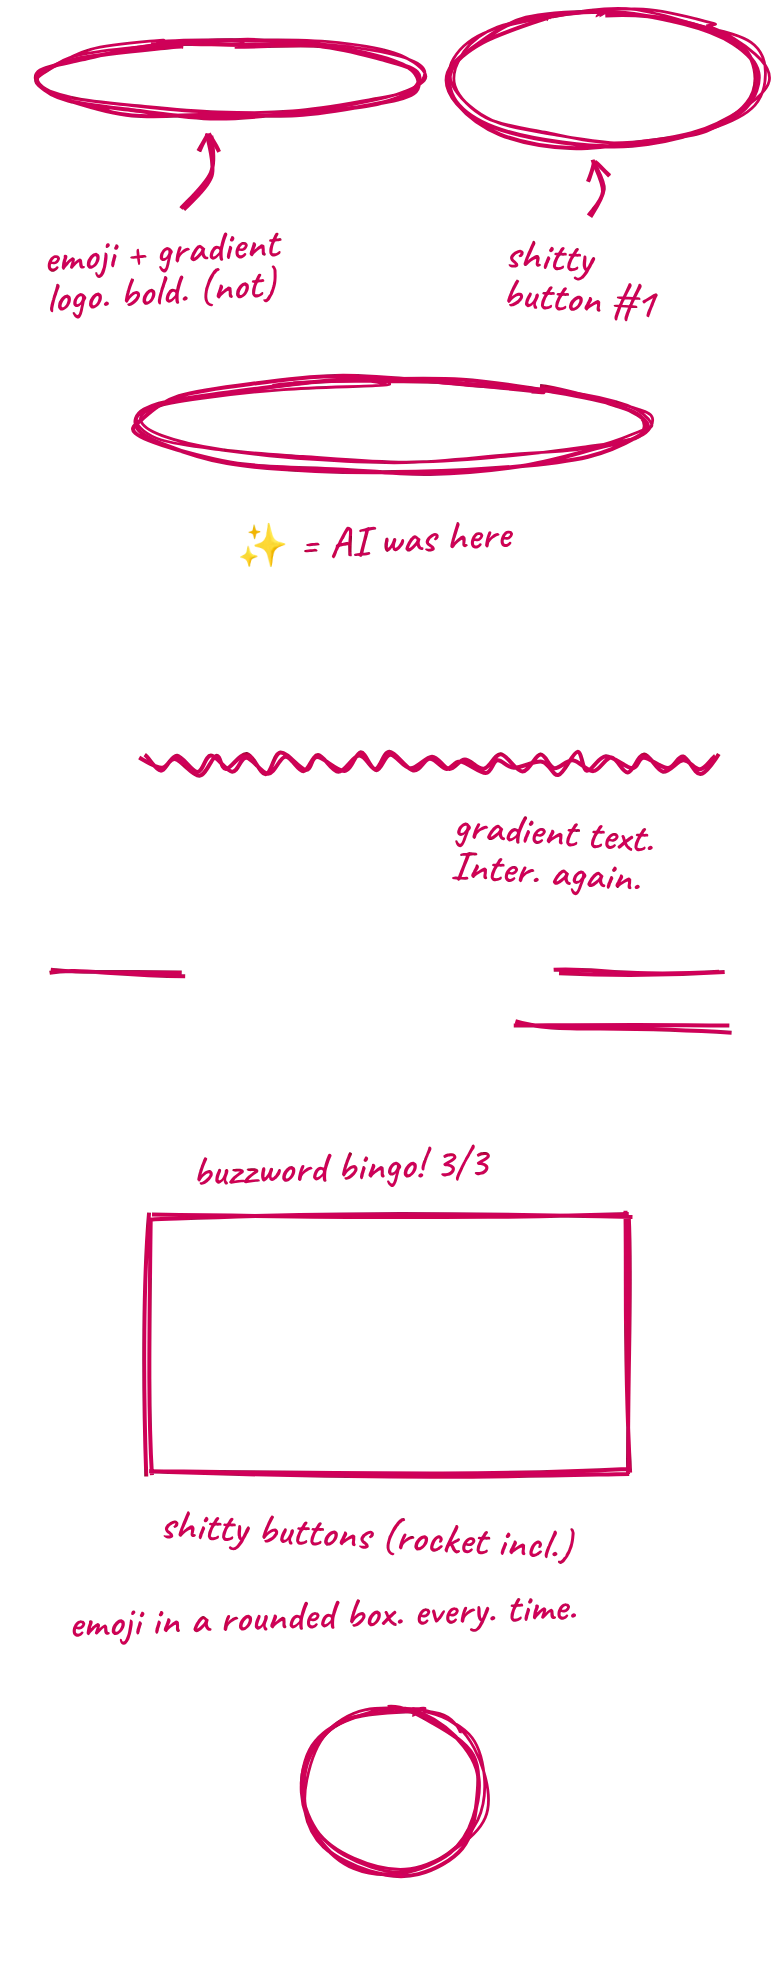
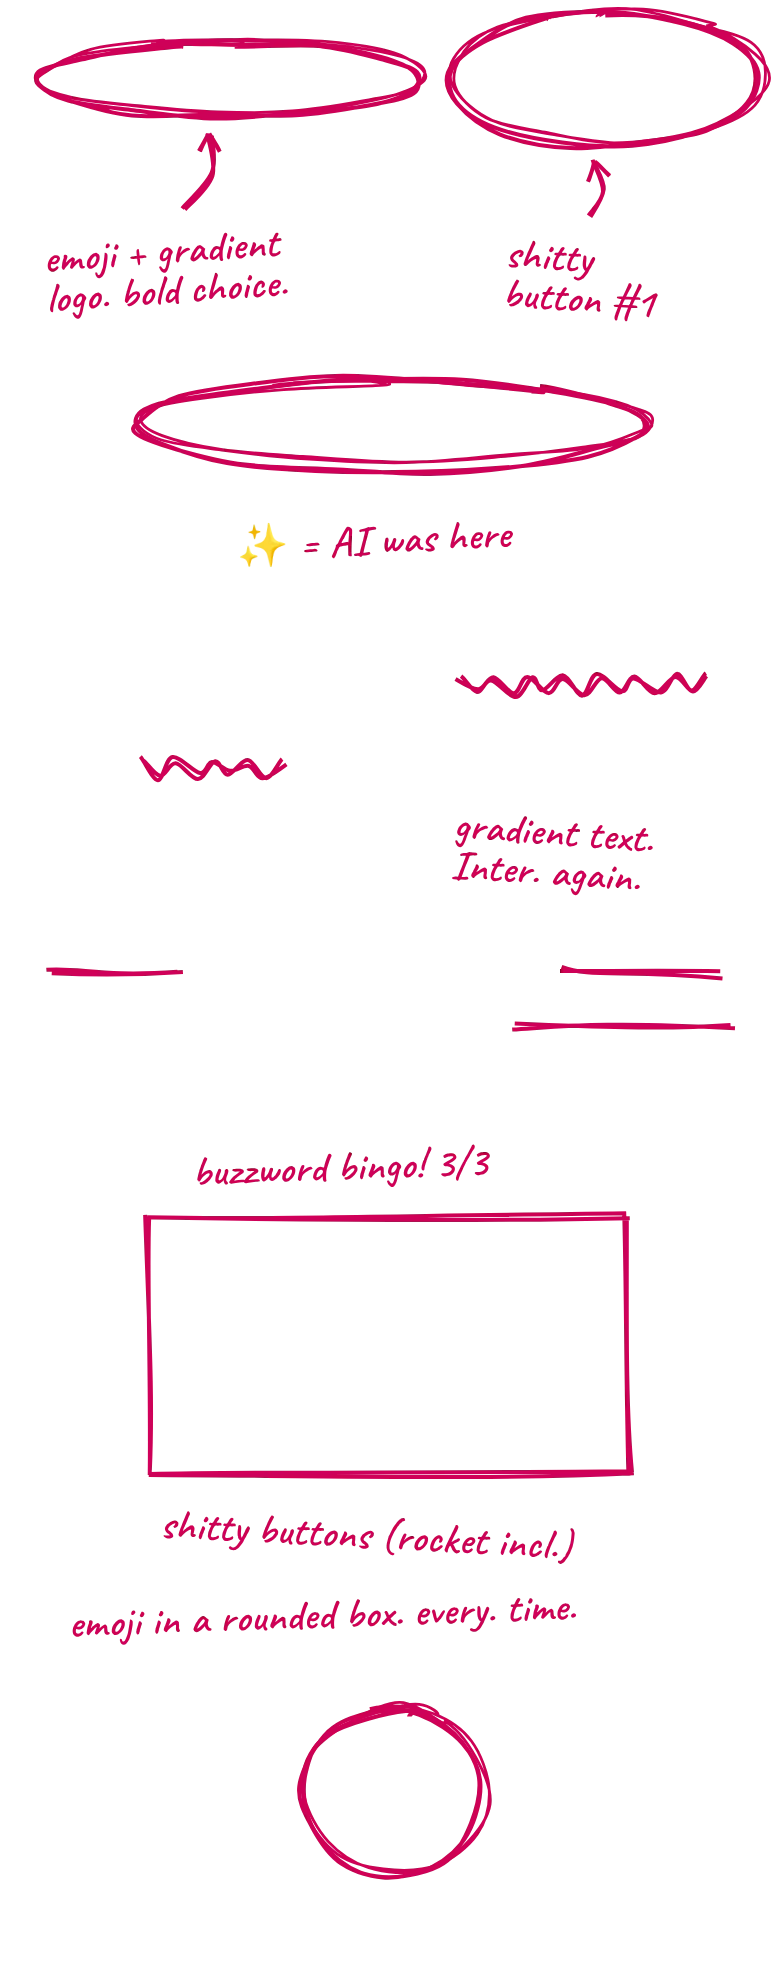
Exhibit A: cleaner gradient-text arrow, drop '(it isn't)'
- Gradient note sits right of 'Coffee' with a short arrow ending just under
  the wavy line (new optional exact arrow tip in annotate.js).
- Phones: underline 'Perfect' and 'Cup' separately so the wave doesn't run
  under 'of Coffee'.
- Logo note is just 'emoji + gradient logo. bold choice.' on both sizes.

Claude-Session: https://claude.ai/code/session_01XV7WpNsZMa4Beu1Lanh1Lz

diff --git a/render/compare/annotate.js b/render/compare/annotate.js
@@ -25,19 +25,20 @@
   const R = (sel) => document.querySelector(sel).getBoundingClientRect();
 
   const NOTES = mobile ? [
-    { marks: [["circle", ".logo"]], at: () => [22, R("nav").bottom + 52], rot: -4, text: "emoji + gradient\nlogo. bold. (not)" },
+    { marks: [["circle", ".logo"]], at: () => [22, R("nav").bottom + 52], rot: -4, text: "emoji + gradient\nlogo. bold choice." },
     { marks: [["circle", "nav .btn"]], at: () => [252, R("nav").bottom + 56], rot: 4, text: "shitty\nbutton #1" },
     { marks: [["circle", ".pill"]], at: () => [118, R(".pill").bottom + 50], rot: -3, text: "✨ = AI was here" },
-    { marks: [["wave", "h1 span"]], at: () => [226, R("h1").bottom + 38], rot: 4, text: "gradient text.\nInter. again.", arrow: false },
+    { marks: [["wave", ["h1 span", "Perfect"]], ["wave", ["h1 span", "Cup"]]], at: () => [226, R("h1").bottom + 38], rot: 4, text: "gradient text.\nInter. again.", arrow: false },
     { marks: [["under", ["header p", "Elevate"]], ["under", ["header p", "seamless"]], ["under", ["header p", "Supercharge"]]],
       at: () => [96, R("header p").bottom + 48], rot: -2, text: "buzzword bingo! 3/3", arrow: false },
     { marks: [["box", ".ctas .btn"]], at: () => [80, R(".ctas").bottom + 50], rot: 3, text: "shitty buttons (rocket incl.)", arrow: false },
     { marks: [["circle", ".card:first-child .icon"]], at: () => [34, R(".card").top - 22], rot: -2, text: "emoji in a rounded box. every. time.", arrow: false },
   ] : [
-    { marks: [["circle", ".logo"]], at: [52, 150], rot: -4, text: "emoji + gradient logo.\nbold choice. (it isn't)" },
+    { marks: [["circle", ".logo"]], at: [52, 150], rot: -4, text: "emoji + gradient logo.\nbold choice." },
     { marks: [["circle", "nav .btn"]], at: [1040, 158], rot: 4, text: "shitty button #1" },
     { marks: [["circle", ".pill"]], at: [860, 214], rot: 3, text: "✨ sparkles = AI was here" },
-    { marks: [["wave", "h1 span"]], at: [860, 332], rot: 4, text: "gradient text.\nin Inter. again." },
+    { marks: [["wave", "h1 span"]], at: [936, 336], rot: 4, text: "gradient text.\nin Inter. again.",
+      tip: () => { const r = R("h1 span"); return [r.right - 70, r.bottom + 10]; } },
     { marks: [["under", ["header p", "Elevate"]], ["under", ["header p", "seamless"]], ["under", ["header p", "Supercharge"]]],
       at: [70, 420], rot: -3, text: "buzzword bingo!\n3/3", arrow: "Elevate" },
     { marks: [["box", ".ctas .btn"]], at: [880, 505], rot: 3, text: "shitty buttons\n(rocket included, free)" },
@@ -123,13 +124,14 @@
   };
 
   // Curved arrow from the note's nearest edge to the edge of the mark
-  const arrow = (b, m) => {
+  const arrow = (b, m, tip) => {
+    if (tip) m = { x: tip[0], y: tip[1], w: 0, h: 0 };   // end exactly at a point
     const nx = b.x + b.width / 2, ny = b.y + b.height / 2;
     const dx = m.x - nx, dy = m.y - ny, len = Math.hypot(dx, dy);
     const ux = dx / len, uy = dy / len;
     // start just outside the note box, end just outside the mark's ellipse
     const tNote = Math.min(Math.abs((b.width / 2 + 8) / (ux || 1e-6)), Math.abs((b.height / 2 + 8) / (uy || 1e-6)));
-    const tMark = 1 / Math.hypot(ux / (m.w / 2 + 8), uy / (m.h / 2 + 8));
+    const tMark = tip ? 0 : 1 / Math.hypot(ux / (m.w / 2 + 8), uy / (m.h / 2 + 8));
     const sx = nx + ux * tNote, sy = ny + uy * tNote;
     const ex = m.x - ux * tMark, ey = m.y - uy * tMark;
     if (Math.hypot(ex - sx, ey - sy) < 12) return;
@@ -147,7 +149,7 @@
     const b = note(n);
     if (n.arrow === false || !done.length) continue;
     const pick = typeof n.arrow === "string" ? done.find((d) => Array.isArray(d.target) && d.target[1] === n.arrow) : done[0];
-    arrow(b, pick.m);
+    arrow(b, pick.m, n.tip && n.tip());
   }
   svg.id = "pen";
   window.__shotHeight = Math.ceil(document.querySelector(".card h3").getBoundingClientRect().bottom + 24);
